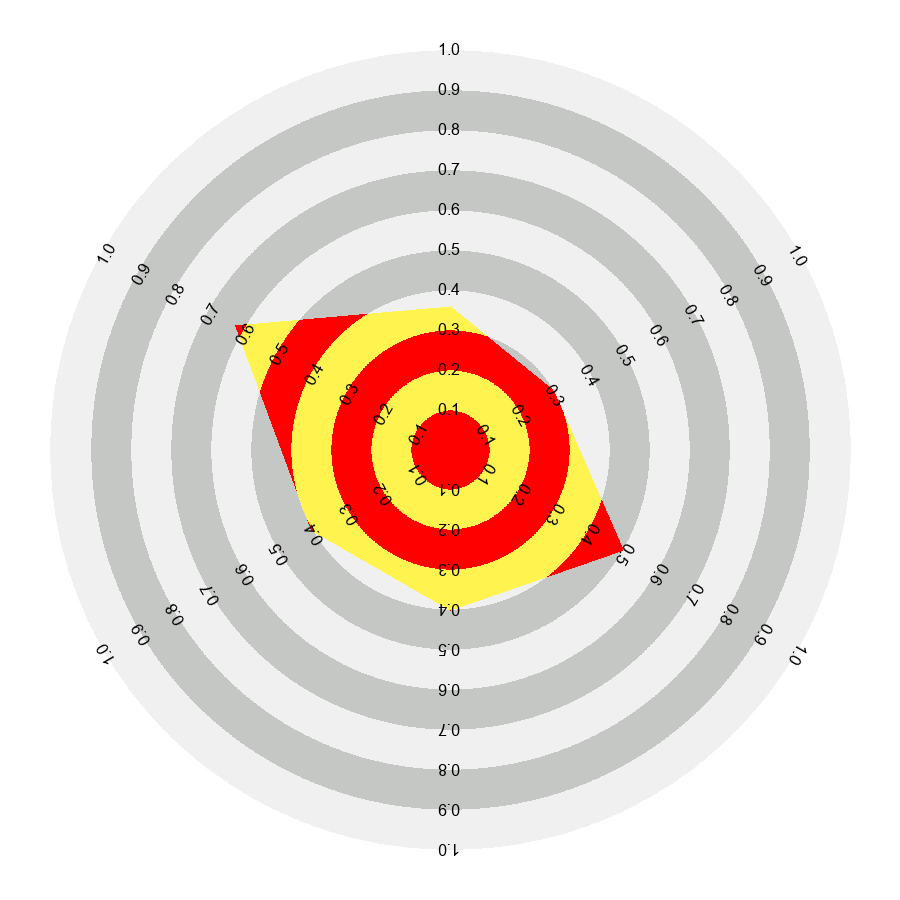
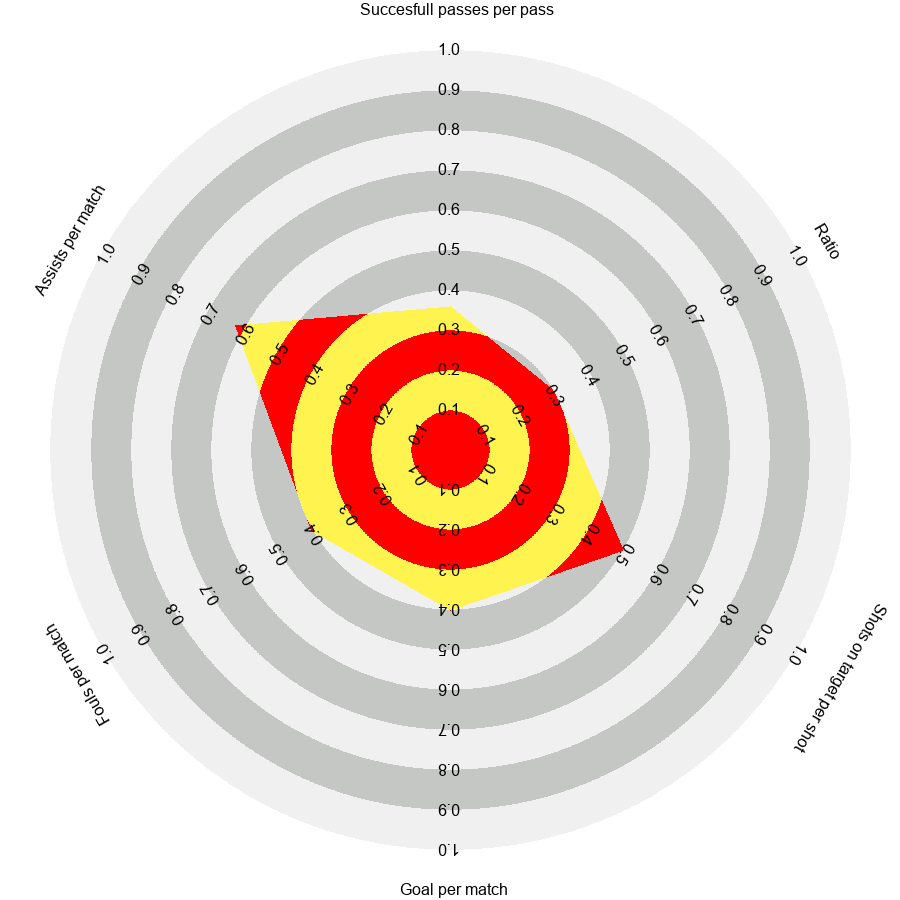
.

diff --git a/main.py b/main.py
@@ -1,6 +1,6 @@
 from PIL import Image, ImageDraw, ImageFont
 import math
-import stats
+# import stats
 
 
 def polygonCreate(listOfStats):
@@ -16,17 +16,51 @@ def polygonCreate(listOfStats):
 
     return apexes
 
-def subtitles(image):
-    draw = ImageDraw.Draw(image)
-    font = ImageFont.truetype("arial.ttf", 16)
-    draw.text((10, 15), "1.0", font=font, fill=(0,0,0))
+def subtitles(image, len):
+    for j in range(len):
+        for i in range(10):
+            pos = j * 360 / len
+            x = int(math.sin(pos * math.pi / 180) * (i + 1) * 40)
+            y = int(math.cos(pos * math.pi / 180) * (i + 1) * 40)
+
+            text = str((i+1)/10.0)
+            box = (438 + x, 440 + y)   # (450, 450) <-- center of diagram
+
+            font = ImageFont.truetype('arial.ttf', 16)
+            line_height = sum(font.getmetrics())
+            fontimage = Image.new('L', (font.getsize(text)[0], line_height))
+            ImageDraw.Draw(fontimage).text((0,0), text, fill=255, font=font)
+            fontimage = fontimage.rotate(pos + 180, resample=Image.BICUBIC, expand=True)
+            image.paste((0, 0, 0), box=box, mask=fontimage)
+    image.save("final.png")
+
+
+def categories(image, len):
+    boxes = ((400,880),(790,600),(810,220),(360,0),(30,180),(40,620))
+    cats = ["Goal per match", "Shots on target per shot", "Ratio", "Succesfull passes per pass", "Assists per match", " Fouls per match"]
+    for j in range(len):
+        if j == 0:
+            pos = 180
+        else:
+            pos = j * 360 / len
+
+        text = cats[j]
+        box = (boxes[j][0], boxes[j][1])
+
+        font = ImageFont.truetype('arial.ttf', 16)
+        line_height = sum(font.getmetrics())
+        fontimage = Image.new('L', (font.getsize(text)[0], line_height))
+        ImageDraw.Draw(fontimage).text((0, 0), text, fill=255, font=font)
+        fontimage = fontimage.rotate(pos + 180, resample=Image.BICUBIC, expand=True)
+        image.paste((0, 0, 0), box=box, mask=fontimage)
 
 
 def main():
     processedData = []
-    processedData.extend((stats.player.goals, stats.player.shots, stats.player.rating, stats.player.passCount, stats.player.assist, stats.player.fouls))
-    print(processedData)
-
+    #dane z API
+    # processedData.extend((stats.player.goals, stats.player.shots, stats.player.rating, stats.player.passCount, stats.player.assist, stats.player.fouls))
+    #dane gdyby API nie działało (np. jak teraz :[)
+    processedData.extend((0.4,0.5,0.3,0.36,0.62,0.40))
 
     firstImg = Image.open("firstIMG.png")
     mask = Image.new("L", firstImg.size, 0)
@@ -36,7 +70,10 @@ def main():
     firstImg.putalpha(mask)
     finalImg = Image.open("secondIMG.png")
     x = Image.composite(firstImg, finalImg, mask)
-    subtitles(x)
+
+    subtitles(x, len(apexes))
+    categories(x, len(apexes))
+
     x.show()
     x.save("final.png")
 

diff --git a/stats.py b/stats.py
@@ -18,7 +18,7 @@ class Stats(object):
         self.fouls = 0
 
     def FindPlayer(self):
-        url = "http://api.isportsapi.com/sport/football/player/search?api_key=sKyIlFCsHtJfPcjj&name=Ronaldo"
+        url = "http://api.isportsapi.com/sport/football/player/search?api_key=VpZZPQimxVaQAqD8&name=Ronaldo"
 
         response = requests.get(url)
         x = response.json()['data']
@@ -32,7 +32,7 @@ class Stats(object):
 
 
     def FindLeague(self, teamId):
-        url = "http://api.isportsapi.com/sport/football/team?api_key=sKyIlFCsHtJfPcjj&teamId=" + str(teamId)
+        url = "http://api.isportsapi.com/sport/football/team?api_key=VpZZPQimxVaQAqD8&teamId=" + str(teamId)
 
         response = requests.get(url)
         x = response.json()['data']
@@ -45,7 +45,7 @@ class Stats(object):
 
 
     def PlayerStats(self, leagueId, playerInfo):
-        url = "http://api.isportsapi.com/sport/football/playerstats/league?api_key=sKyIlFCsHtJfPcjj&leagueId=" + str(leagueId)
+        url = "http://api.isportsapi.com/sport/football/playerstats/league?api_key=VpZZPQimxVaQAqD8&leagueId=" + str(leagueId)
 
         response = requests.get(url)
         x = response.json()['data']
